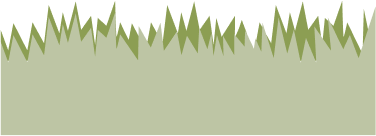
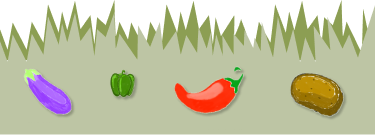
last few changes!

diff --git a/tuin.html b/tuin.html
@@ -6,17 +6,21 @@
     <link rel="stylesheet" href="https://cdnjs.cloudflare.com/ajax/libs/font-awesome/4.7.0/css/font-awesome.min.css">
     <link rel="stylesheet" href="css/style.css">
     <script defer src="js/script.js"></script>
-    <title>Welkom!</title>
+    <!-- fonts -->
+    <link rel="preconnect" href="https://fonts.googleapis.com">
+    <link rel="preconnect" href="https://fonts.gstatic.com" crossorigin>
+    <link href="https://fonts.googleapis.com/css2?family=Alumni+Sans&family=Hepta+Slab:wght@500&family=Indie+Flower&family=Inknut+Antiqua:wght@300;400;500;600;700;800;900&display=swap" rel="stylesheet">
+    <title>Onze tuin</title>
 </head>
 <body>
     <header>
         <nav>
             <img src="images/gs-logo.png" alt="Logo">
                 <div id="myLinks">
-                    <a href="index.html">HOME</a>
-                    <a href="missie.html">MISSIE</a>
-                    <a href="aanbod.html">AANBOD</a>
-                    <a href="tuin.html">ONZE TUIN</a>
+                    <a class="links" href="index.html">HOME</a>
+                    <a class="links" href="missie.html">MISSIE</a>
+                    <a class="links" href="aanbod.html">AANBOD</a>
+                    <a class="links" href="tuin.html">ONZE TUIN</a>
                 </div>
             <a href="javascript:void(0);" class="icon" onclick="myFunction()">
                 <i class="fa fa-bars"></i>
@@ -25,10 +29,11 @@
         <img id="vine" src="images/gs-header-vine.png" alt="Header Vine">
     </header>
     <main>
+        <h1>Tuin</h1>
         <img id="tuinHeader" src="images/gs-main-tuin-header.png" alt="Tuin header">
         <section id="tuinIntro">
             <h2>
-                Weet jij je waarde? Doe iets goeds voor de Aarde!
+                Weet jij je waarde?<br>Doe iets goeds<br>voor de Aarde!
             </h2>
             <p>
                 Hieronder krijg je via een versimpelde diagram te zien welke vakken tot 
@@ -39,15 +44,19 @@
             <img src="images/gs-tuin-diagram.png" alt="Tuin Diagram">
         </section>
         <img class="brownDivider" src="images/gs-divider-brown.png" alt="Brown divider">
-        <img id="imgBorder" src="images/gs-img-1.png" alt="ImgBorder">
+
+        <div id="huisregelsPic">
+            <img src="images/gs-tuin-huisregelspic.png" alt="picture">
+            <img id="imgBorder" src="images/gs-img-1.png" alt="ImgBorder">
+        </div>
 
         <section id="tuinHuisregels">
-        <h2>HUISREGELS</h2>
+        <h2 style="font-size: 40px;">HUISREGELS</h2>
             <p>Bij onze moestuin krijg je te maken met huisregels.
                 <ul>
-                    <li>ALLEEN groentes, fruit en kruiden planten.</li>
-                    <li>GEEN rommel maken.</li>
-                    <li>GEEN gebruik maken van alcohol of drugs op de moestuin.</li>
+                    <li><b>ALLEEN</b> groentes, fruit en kruiden planten.</li>
+                    <li><b>GEEN</b> rommel maken.</li>
+                    <li><b>GEEN</b> gebruik maken van alcohol of drugs op de moestuin.</li>
                 </ul>
             </p>
         </section>

diff --git a/aanbod.html b/aanbod.html
@@ -6,6 +6,10 @@
     <link rel="stylesheet" href="https://cdnjs.cloudflare.com/ajax/libs/font-awesome/4.7.0/css/font-awesome.min.css">
     <link rel="stylesheet" href="css/style.css">
     <script defer src="js/script.js"></script>
+    <!-- fonts -->
+    <link rel="preconnect" href="https://fonts.googleapis.com">
+    <link rel="preconnect" href="https://fonts.gstatic.com" crossorigin>
+    <link href="https://fonts.googleapis.com/css2?family=Alumni+Sans&family=Hepta+Slab:wght@500&family=Indie+Flower&family=Inknut+Antiqua:wght@300;400;500;600;700;800;900&display=swap" rel="stylesheet">
     <title>Aanbod</title>
 </head>
 <body>
@@ -13,10 +17,10 @@
         <nav>
             <img src="images/gs-logo.png" alt="Logo">
                 <div id="myLinks">
-                    <a href="index.html">HOME</a>
-                    <a href="missie.html">MISSIE</a>
-                    <a href="aanbod.html">AANBOD</a>
-                    <a href="tuin.html">ONZE TUIN</a>
+                    <a class="links" href="index.html">HOME</a>
+                    <a class="links" href="missie.html">MISSIE</a>
+                    <a class="links" href="aanbod.html">AANBOD</a>
+                    <a class="links" href="tuin.html">ONZE TUIN</a>
                 </div>
             <a href="javascript:void(0);" class="icon" onclick="myFunction()">
                 <i class="fa fa-bars"></i>
@@ -25,6 +29,7 @@
         <img id="vine" src="images/gs-header-vine.png" alt="Header Vine">
     </header>
     <main>
+        <h1>Aanbod</h1>
         <img id="aanbodHeader" src="images/gs-main-aanbod-header.png" alt="Aanbod header">
 
         <div id="aanbodPic">
@@ -32,21 +37,25 @@
             <img src="images/gs-img-1.png" alt="Border">
         </div>
 
+        <h2 style="font-size: 24px;">Waar werken wij<br> naartoe?</h2>
+
         <p class="aanbodParagraphs">
-            Wij werken naar een gezond en sociaal atmosfeer toe waarin 
+            Wij werken naar een <b>gezond</b> en <b>sociaal</b> atmosfeer toe waarin 
             je met elkaar gemakkelijk te werk kan gaan! Of je een beginner
-            bent, of een gedegen expert; iedereen is welkom!
+            bent, of een gedegen expert; iedereen is welkom! Wij proberen 
+            op alle vlakken de teelt en cultivatie werk in de moestuin een 
+            <b>hobby</b> te maken, zodat het <u>nooit</u> meer als werk zal aanvoelen!
         </p>
 
         <img src="images/gs-divider-brown.png" alt="Brown divider">
-        <p id="aanbodBieden">Wij bieden: </p>
+        <p id="aanbodBieden">Wij bieden wederom: </p>
 
         <ul>
-            <li>Een plezierrijke atmosfeer</li>
+            <li>Leuke moestuinactiviteiten activiteiten</li>
             <li>Gratis teelbaar groente en fruit</li>
-            <li>Workshops in tuinieren</li>
-            <li>Een hechte netwerk </li>
-            <li><b>Heel</b> veel groente!</li>
+            <li>Workshops in verdiepend tuinieren</li>
+            <li>Een hechte netwerk</li>
+            <li><b>Heel</b> veel plezier!</li>
         </ul>
 
         <img src="images/gs-divider-green.png" alt="Green divider">

diff --git a/missie.html b/missie.html
@@ -6,6 +6,10 @@
     <link rel="stylesheet" href="https://cdnjs.cloudflare.com/ajax/libs/font-awesome/4.7.0/css/font-awesome.min.css">
     <link rel="stylesheet" href="css/style.css">
     <script defer src="js/script.js"></script>
+    <!-- fonts -->
+    <link rel="preconnect" href="https://fonts.googleapis.com">
+    <link rel="preconnect" href="https://fonts.gstatic.com" crossorigin>
+    <link href="https://fonts.googleapis.com/css2?family=Alumni+Sans&family=Hepta+Slab:wght@500&family=Indie+Flower&family=Inknut+Antiqua:wght@300;400;500;600;700;800;900&display=swap" rel="stylesheet">
     <title>Missie</title>
 </head>
 <body>
@@ -13,10 +17,10 @@
         <nav>
             <img src="images/gs-logo.png" alt="Logo">
                 <div id="myLinks">
-                    <a href="index.html">HOME</a>
-                    <a href="missie.html">MISSIE</a>
-                    <a href="aanbod.html">AANBOD</a>
-                    <a href="tuin.html">ONZE TUIN</a>
+                    <a class="links" href="index.html">HOME</a>
+                    <a class="links" href="missie.html">MISSIE</a>
+                    <a class="links" href="aanbod.html">AANBOD</a>
+                    <a class="links" href="tuin.html">ONZE TUIN</a>
                 </div>
             <a href="javascript:void(0);" class="icon" onclick="myFunction()">
                 <i class="fa fa-bars"></i>
@@ -25,12 +29,15 @@
         <img id="vine" src="images/gs-header-vine.png" alt="Header Vine">
     </header>
     <main>
+        <h1>Missie</h1>
         <img id="missieHeader" src="images/gs-main-missie-header.png" alt="Missie header">
 
         <div id="missiePic">
             <img src="images/missiepic-1.png" alt="img border">
             <img src="images/gs-img-1.png" alt="">
         </div>
+
+        <h2>Wat willen wij?</h2>
 
         <p class="missieParagraphs">
             Wij als Green Society geloven dus in een betere, groene wereld. 
@@ -43,15 +50,15 @@
         <section id="missieTestimony">
             <img src="images/missiepic-2.png" alt="asdfaskjdfn">
             <img src="images/gs-img-2.png" alt="smaller img border">
-            <h3>"Tuinieren was nooit zo leuk geweest!" - J. Singh</h3>
+            <h3>Wij zijn de toekomst; wil je dat ook zijn, dan behoor je perfect bij ons! </h3>
         </section>
 
         <p class="missieParagraphs">
             In de wereld waarin wij leven, wordt iedereen rondom ons steeds minder
-            bewust van hun diëet. Er wordt niet meer gedacht aan de toekomst van hun gezondheid. 
+            bewust van hun diëet. Er wordt niet meer gedacht aan elkaars gezondheid, en de toekomst die dat kan brengen. 
         </p>
 
-        <h2>Daar willen wij wat aan doen!</h2>
+        <h2>Daar willen wij<br>wat aan doen!</h2>
 
         <img src="images/gs-divider-green.png" alt="Green divider">
 

diff --git a/css/style.css b/css/style.css
@@ -5,8 +5,41 @@
         margin: auto;
     }
 
+    /* fonts */
+
+    p, ul, i {
+        font-family: "Alumni Sans", serif;
+        font-optical-sizing: auto;
+        font-weight: 500;
+        font-style: normal;
+        font-size: 1.5em;
+    }
+
+    h1 {
+        display: none;
+        font-family: 'Regint';
+    }
+
+    a {
+        font-family: "Inknut Antiqua", serif;
+        font-weight: 900;
+        font-style: normal;
+    }
+
     h2 {
+        font-family: "Hepta Slab", serif;
+        font-optical-sizing: auto;
+        font-weight: 900;
+        font-style: normal;
         text-align: center;
+        font-size: 26px;
+    }
+
+    h3 {
+        font-family: "Indie Flower", serif;
+        font-size: 18px;
+        font-weight: 600;
+        font-style: normal;
     }
 
     /* General Stuff */
@@ -31,7 +64,8 @@
     nav {
         background-color: #F0EAD2;
         position: relative;
-        padding: 0.5em;
+        margin-top: 1em;
+        margin-inline: 1em;
     }
 
     #vine {
@@ -40,19 +74,30 @@
       
     nav #myLinks {
         display: none;
+        margin-top: 10px;
     }
     
     nav a {
         color: black;
-        padding: 1.3em 1.4em;
         text-decoration: none;
+        padding-inline: 1em;
+        padding-block: 0.3em;
         font-size: 1em;
         display: block;
+        text-align: center;
+    }
+    
+    .links {
+        color: #BDC5A4;
+        background-color: #6C584C;
+        border: solid 2px #BDC5A4;
+        margin-top: 2px;
     }
     
     nav a.icon {
         background: #BDC5A4;
         border: solid 2px #6C584C;
+        border-radius: 9px;
         display: block;
         position: absolute;
         right: 0;
@@ -60,7 +105,7 @@
     }
     
     nav a:hover {
-        background-color: #ddd;
+        background-color: #BDC5A4;
         color: black;
     }
     
@@ -80,10 +125,13 @@
     }
 
     /* Index.html */
-    #greenSociety {
+
+    #greenSocietyDiv {
+        display: flex;
+        justify-content: center;
+        padding: 1em;
         margin-top: 16px;
         margin-inline: 1.2em;
-        padding: 6em;
         border-radius: 9px;
         background-color: #6C584C;
         border: solid 5px #8C9E53;
@@ -100,7 +148,6 @@
     #introText {
         text-align: center;
         margin-inline: 1.2em;
-        font-size: 1.2em;
     }
 
     /* Index page cards */
@@ -194,6 +241,18 @@
         /* temporary */
         margin-inline: 1.2em;
     }
+
+    #huisregelsPic {
+        margin-top: 1em;
+        display: flex;
+        justify-content: center;
+    }
+
+    #huisregelsPic > img:first-of-type {
+        position: absolute;
+        margin-top: 30px;
+    }
+
 
     /* fix footer */
     #footerImg {

diff --git a/index.html b/index.html
@@ -6,6 +6,10 @@
     <link rel="stylesheet" href="https://cdnjs.cloudflare.com/ajax/libs/font-awesome/4.7.0/css/font-awesome.min.css">
     <link rel="stylesheet" href="css/style.css">
     <script defer src="js/script.js"></script>
+    <!-- fonts -->
+    <link rel="preconnect" href="https://fonts.googleapis.com">
+    <link rel="preconnect" href="https://fonts.gstatic.com" crossorigin>
+    <link href="https://fonts.googleapis.com/css2?family=Alumni+Sans&family=Hepta+Slab:wght@500&family=Indie+Flower&family=Inknut+Antiqua:wght@300;400;500;600;700;800;900&display=swap" rel="stylesheet">
     <title>Welkom!</title>
 </head>
 <body>
@@ -13,10 +17,10 @@
         <nav>
             <img src="images/gs-logo.png" alt="Logo">
                 <div id="myLinks">
-                    <a href="index.html">HOME</a>
-                    <a href="missie.html">MISSIE</a>
-                    <a href="aanbod.html">AANBOD</a>
-                    <a href="tuin.html">ONZE TUIN</a>
+                    <a class="links" href="index.html">HOME</a>
+                    <a class="links" href="missie.html">MISSIE</a>
+                    <a class="links" href="aanbod.html">AANBOD</a>
+                    <a class="links" href="tuin.html">ONZE TUIN</a>
                 </div>
             <a href="javascript:void(0);" class="icon" onclick="myFunction()">
                 <i class="fa fa-bars"></i>
@@ -26,12 +30,24 @@
     </header>
 
     <main>
+        <h1>Welkom!</h1>
         <img id="welkomHeader" src="images/gs-main-welkom-header.png" alt="Welkom header">
-        <div id="greenSociety"></div>
+
+
+
+        <section id="greenSocietyHeader">
+            <div id="greenSocietyDiv">
+                <img src="images/gs-logo2-white.png" alt="Green Society logo">
+            </div>
+        </section>
+            <h2>Wie zijn wij?</h2>
             <p id="introText">
-                Wij zijn Green Society, en wij beheren een moestuin waarin 
+                Wij zijn <b>Green Society</b>, en wij beheren een moestuin waarin 
                 vrijwel iedereen zich geroepen kan voelen om bij te dragen!
-                Hieronder zie je een overzicht van onze verschillende pagina’s.
+                Hieronder zie je een overzicht van onze verschillende pagina’s
+                die wij hebben op de pagina. Wij hopen JOU te kunnen overtuigen om
+                gezellig mee te doen aan het creëren van een <b>gezondere</b> en
+                <b>duurzame</b> toekomst!
             </p>
         <div id="brownDividerMiddle"></div>
 
